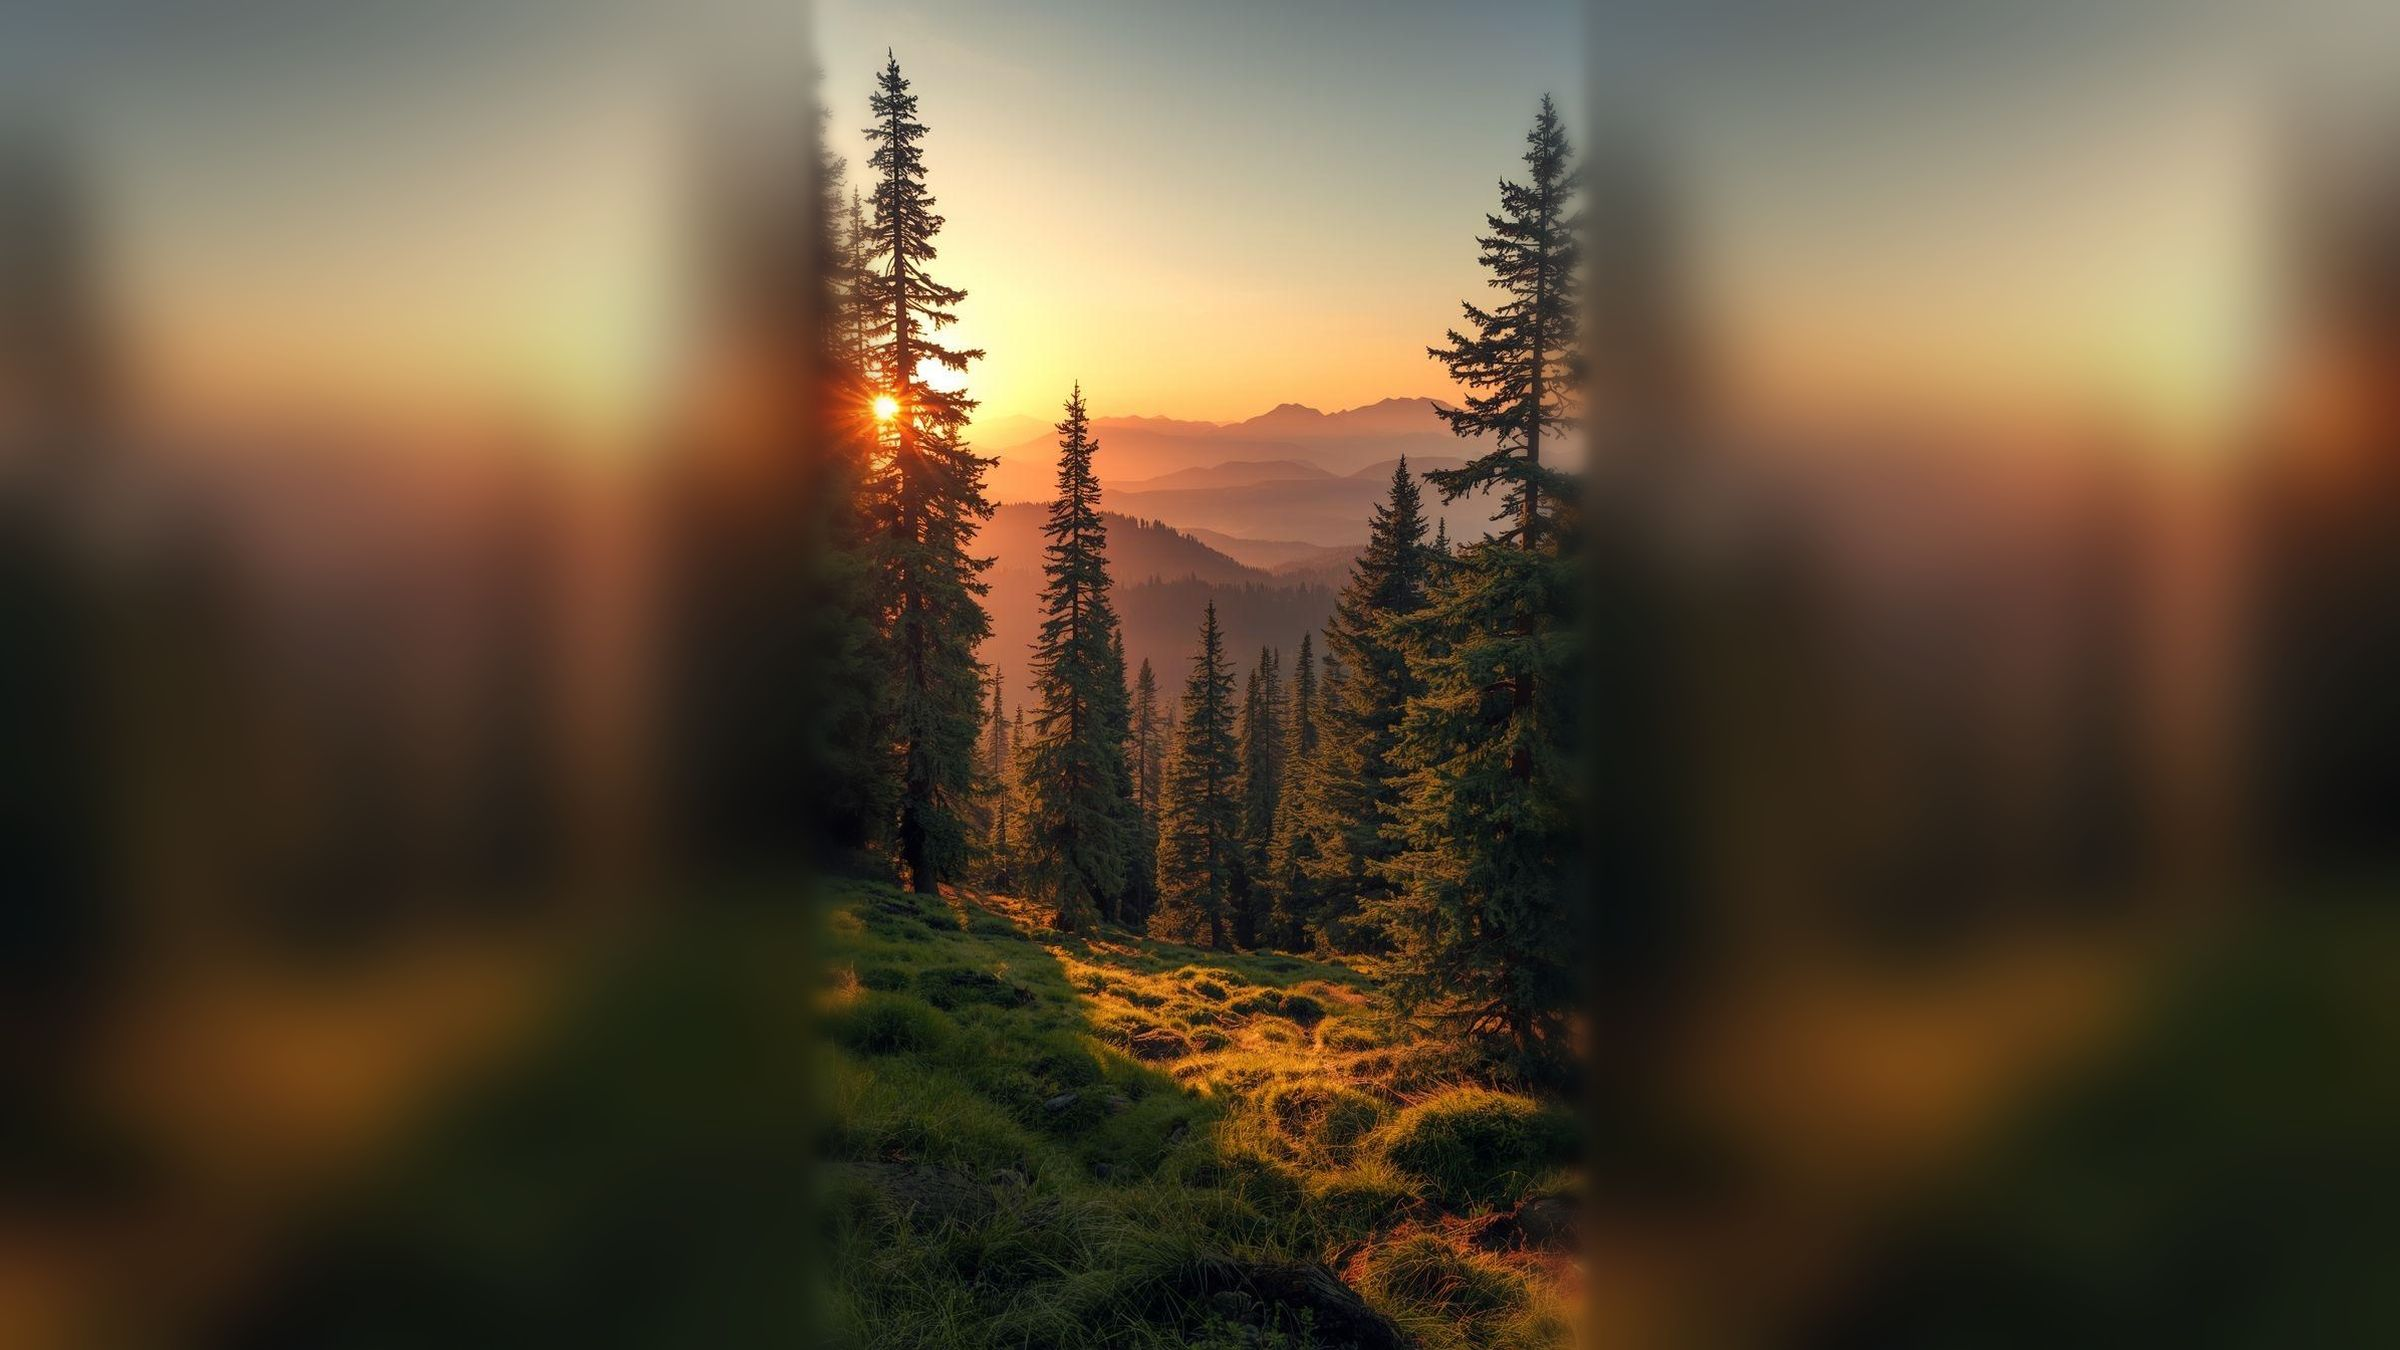
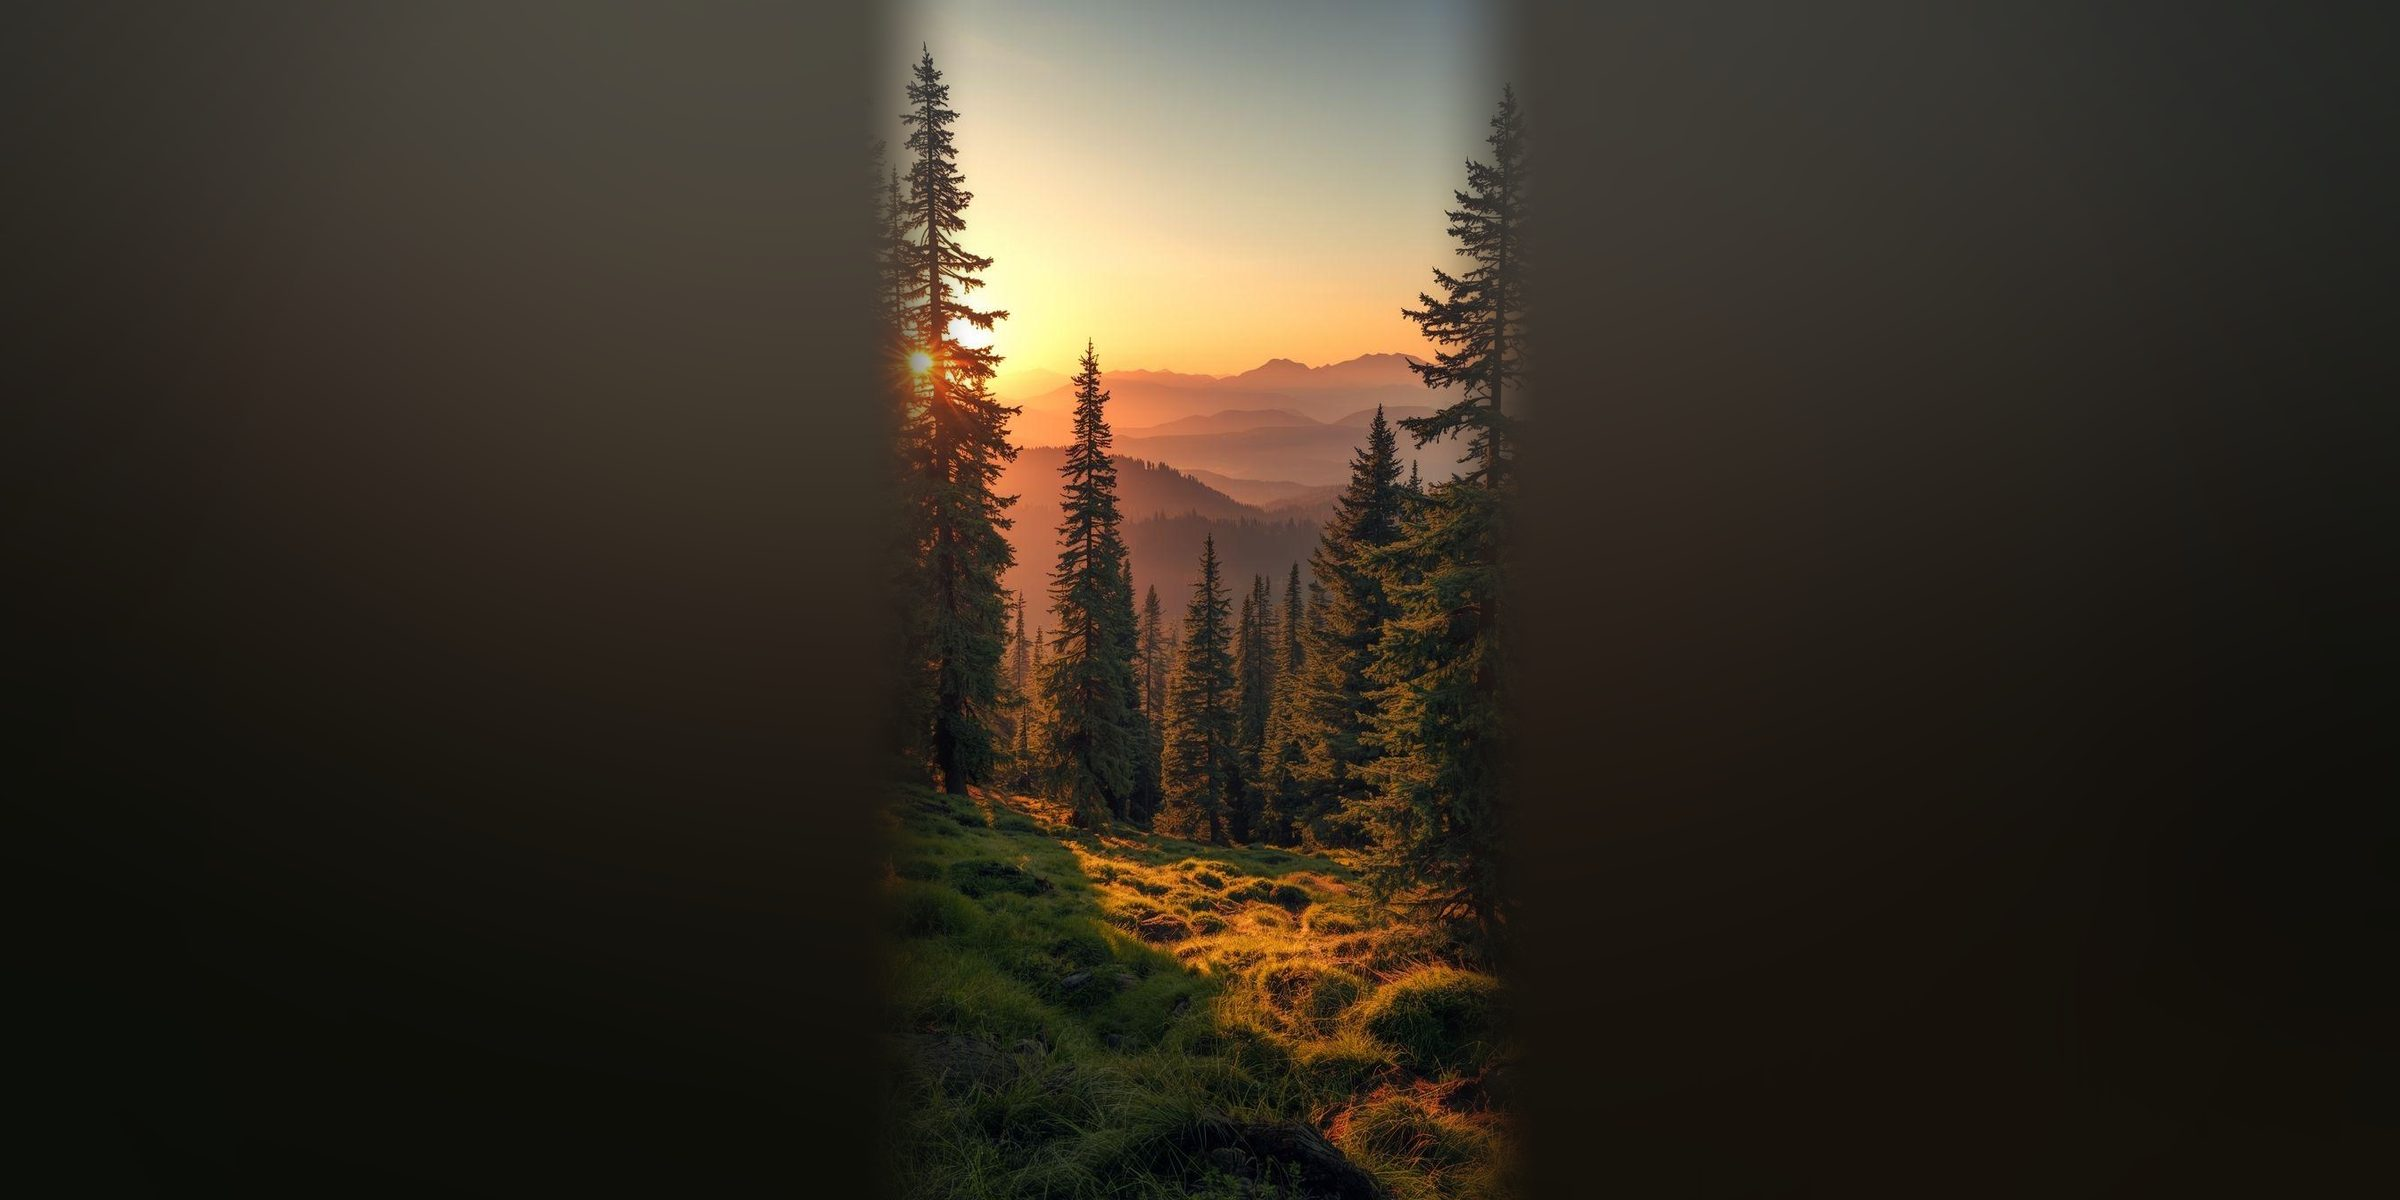
Hero v4 + sjednocený formulář + mikrobus + UX fixes

diff --git a/index.html b/index.html
@@ -139,7 +139,7 @@ img{display:block;max-width:100%}
 
 /* ===== INFO ===== */
 .info{padding:var(--py) 0;background:var(--sage-dark);color:var(--text-on-dark)}
-.info-cards{display:grid;grid-template-columns:1fr 1fr;gap:20px;margin-top:40px}
+.info-cards{display:grid;grid-template-columns:repeat(3,1fr);gap:20px;margin-top:40px}@media(max-width:1100px){.info-cards{grid-template-columns:1fr 1fr}}
 .info-card{padding:36px 28px;background:rgba(255,255,255,.07);border:1px solid rgba(255,255,255,.1);border-radius:var(--r);text-align:center;transition:.35s}
 .info-card:hover{background:rgba(255,255,255,.12);transform:translateY(-3px)}
 .info-card h3{font-family:var(--ff-display);font-size:26px;font-weight:500;color:var(--text-on-dark);margin:12px 0}
@@ -148,6 +148,8 @@ img{display:block;max-width:100%}
 .info-card strong{color:var(--text-on-dark);font-weight:500}
 .info-warn{margin-top:24px;padding:20px 24px;background:rgba(0,0,0,.12);border:1px solid rgba(255,255,255,.1);border-radius:var(--r);font-size:15px;color:var(--text-on-dark-soft);line-height:1.75}
 .info-warn strong{color:var(--gold-light);font-weight:500}
+.contact-note{margin:32px auto 0;max-width:680px;padding:22px 28px;background:var(--forest-deep);border-radius:var(--r);font-size:16px;color:var(--text-on-dark);line-height:1.7;text-align:center}
+.contact-note strong{color:var(--gold-light);font-weight:500}
 .tl{margin-top:48px}
 .tl h3{font-family:var(--ff-display);font-weight:400;font-size:28px;color:var(--text-on-dark);text-align:center;margin-bottom:32px}
 .tl-row{display:flex;justify-content:center;flex-wrap:wrap}
@@ -368,7 +370,7 @@ img{display:block;max-width:100%}
     <h1 class="hero-names">Tereza<span class="amp">a</span>Lukáš</h1>
     <div class="hero-frame"><svg color="var(--gold-light)"><use href="#hero-ornament"/></svg></div>
     <p class="hero-where">15. srpna 2026<i>·</i>Penzion Rochota, Brdy</p>
-    <div class="hero-btns"><a href="#rsvp" class="btn btn-gold">Potvrdit účast</a><a href="#booking" class="btn btn-ghost">Rezervovat ubytování</a></div>
+    <div class="hero-btns"><a href="#rsvp" class="btn btn-gold">Potvrdit účast &amp; ubytování</a><a href="#info" class="btn btn-ghost">Informace o svatbě</a></div>
   </div>
 </section>
 
@@ -379,25 +381,24 @@ img{display:block;max-width:100%}
 <section class="gal"><div class="tc wrap rv"><span class="tag-light">Naše chvíle</span><h2 class="title-light">Cesta <em>k sobě</em></h2><div class="divider-botanical"><svg width="200" height="24" color="var(--gold-pale)"><use href="#branch"/></svg></div></div><div class="gal-wrap rv"><button class="gal-btn gal-prev" aria-label="Předchozí"><svg viewBox="0 0 24 24" fill="none" stroke="currentColor" stroke-width="2"><path d="M15 18l-6-6 6-6"/></svg></button><div class="gal-track" id="galTrack"><img src="gallery-1.jpg" alt="" loading="lazy"><img src="gallery-2.jpg" alt="" loading="lazy"><img src="gallery-3.jpg" alt="" loading="lazy"><img src="gallery-4.jpg" alt="" loading="lazy"><img src="gallery-5.jpg" alt="" loading="lazy"><img src="gallery-6.jpg" alt="" loading="lazy"><img src="gallery-7.jpg" alt="" loading="lazy"><img src="gallery-8.jpg" alt="" loading="lazy"><img src="gallery-9.jpg" alt="" loading="lazy"><img src="gallery-10.jpg" alt="" loading="lazy"><img src="gallery-11.jpg" alt="" loading="lazy"><img src="gallery-12.jpg" alt="" loading="lazy"></div><button class="gal-btn gal-next" aria-label="Další"><svg viewBox="0 0 24 24" fill="none" stroke="currentColor" stroke-width="2"><path d="M9 18l6-6-6-6"/></svg></button><div class="gal-dots" id="galDots"></div></div></section>
 
 <!-- INFO -->
-<section class="info" id="info"><div class="wrap"><div class="tc rv"><span class="tag-light">Informace o svatbě</span><h2 class="title-light">Kdy a <em>kde</em></h2><p class="sub-light">Uprostřed brdských lesů, na samotę, jen kousek od Prahy</p><div class="divider-botanical"><svg width="200" height="24" color="var(--gold-pale)"><use href="#branch"/></svg></div></div><div class="info-cards"><div class="info-card rv rv-d1"><h3>Datum &amp; čas</h3><p><strong>Sobota 15. srpna 2026</strong><br>Coffee break od 10:30<br>Obřad ve 14:30 hodin<br><br>Prosíme o příjezd nejpozději ve 14:00.</p></div><div class="info-card rv rv-d2"><h3>Místo konání</h3><p><strong>Restaurace &amp; Penzion Rochota</strong><br>Rochoty 930, 263 01 Dobříš<br><a href="https://maps.google.com/?q=49.8731231,14.1892425" target="_blank" rel="noopener">Otevřít v Google Maps →</a></p></div></div><div class="info-warn rv"><strong>⚠ Jak se k nám dostanete:</strong> Rochota leží cca 29 km od Prahy (30 min autem). Jeďte přes vesnici <strong>Halouny</strong>. Google Mapy mohou navádět z druhé strany — tudy vede jen lesní cesta, <strong>nejezděte tam!</strong> Doporučujeme Waze. Parkování pro 35 aut v areálu zdarma.</div><div class="tl rv"><h3>Harmonogram dne</h3><div class="tl-row"><div class="tl-item"><div class="tl-time">10:30</div><div class="tl-name">Coffee break &amp; přivítání</div></div><div class="tl-item"><div class="tl-time">12:00</div><div class="tl-name">Oběd</div></div><div class="tl-item"><div class="tl-time">14:30</div><div class="tl-name">Obřad u jezírka</div></div><div class="tl-item"><div class="tl-time">odpoledne</div><div class="tl-name">Krájení dortu, focení, koupání v jezeře, volná zábava — a nechte se překvapit ✨</div></div><div class="tl-item"><div class="tl-time">od 18:00</div><div class="tl-name">Grilování &amp; oheň</div></div><div class="tl-item"><div class="tl-time">od 19:30</div><div class="tl-name">Párty až do rána</div></div></div></div><div class="map-box rv"><iframe src="https://www.google.com/maps/embed?pb=!1m18!1m12!1m3!1d5145.2!2d14.1870!3d49.8731!2m3!1f0!2f0!3f0!3m2!1i1024!2i768!4f13.1!3m3!1m2!1s0x470b930a3a6a0a0f%3A0x400af0f6614f890!2sRochoty!5e0!3m2!1scs!2scz!4v1" loading="lazy" allowfullscreen referrerpolicy="no-referrer-when-downgrade"></iframe></div></div></section>
+<section class="info" id="info"><div class="wrap"><div class="tc rv"><span class="tag-light">Informace o svatbě</span><h2 class="title-light">Kdy a <em>kde</em></h2><p class="sub-light">Uprostřed brdských lesů, na samotę, jen kousek od Prahy</p><div class="divider-botanical"><svg width="200" height="24" color="var(--gold-pale)"><use href="#branch"/></svg></div></div><div class="info-cards"><div class="info-card rv rv-d1"><h3>Datum &amp; čas</h3><p><strong>Sobota 15. srpna 2026</strong><br>Coffee break od 10:30<br>Obřad ve 14:30 hodin<br><br>Prosíme o příjezd nejpozději ve 14:00.</p></div><div class="info-card rv rv-d2"><h3>Místo konání</h3><p><strong>Restaurace &amp; Penzion Rochota</strong><br>Rochoty 930, 263 01 Dobříš<br><a href="https://maps.google.com/?q=49.8731231,14.1892425" target="_blank" rel="noopener">Otevřít v Google Maps →</a></p></div><div class="info-card rv rv-d2"><h3>🚐 Doprava z Prahy</h3><p>Pro pohodlí všech hostů jsme zařídili <strong>mikrobus z Prahy</strong>, který bude jezdit <strong>každou hodinu</strong>. Stačí v RSVP formuláři zaškrtnout, že máte zájem — ozveme se s detailním rozpisem (místo, časy odjezdů a návratů).</p></div></div><div class="info-warn rv"><strong>⚠ Jak se k nám dostanete:</strong> Rochota leží cca 29 km od Prahy (30 min autem). Jeďte přes vesnici <strong>Halouny</strong>. Google Mapy mohou navádět z druhé strany — tudy vede jen lesní cesta, <strong>nejezděte tam!</strong> Doporučujeme Waze. Parkování pro 35 aut v areálu zdarma.</div><div class="tl rv"><h3>Harmonogram dne</h3><div class="tl-row"><div class="tl-item"><div class="tl-time">10:30</div><div class="tl-name">Coffee break &amp; přivítání</div></div><div class="tl-item"><div class="tl-time">12:00</div><div class="tl-name">Oběd</div></div><div class="tl-item"><div class="tl-time">14:30</div><div class="tl-name">Obřad u jezírka</div></div><div class="tl-item"><div class="tl-time">odpoledne</div><div class="tl-name">Krájení dortu, focení, koupání v jezeře, volná zábava — a nechte se překvapit ✨</div></div><div class="tl-item"><div class="tl-time">od 18:00</div><div class="tl-name">Grilování &amp; oheň</div></div><div class="tl-item"><div class="tl-time">od 19:30</div><div class="tl-name">Párty až do rána</div></div></div></div><div class="map-box rv"><iframe src="https://www.google.com/maps/embed?pb=!1m18!1m12!1m3!1d5145.2!2d14.1870!3d49.8731!2m3!1f0!2f0!3f0!3m2!1i1024!2i768!4f13.1!3m3!1m2!1s0x470b930a3a6a0a0f%3A0x400af0f6614f890!2sRochoty!5e0!3m2!1scs!2scz!4v1" loading="lazy" allowfullscreen referrerpolicy="no-referrer-when-downgrade"></iframe></div></div></section>
 
 <!-- ACCOMMODATION -->
 <section class="accom" id="accom"><div class="wrap"><div class="tc rv"><span class="tag-dark">Ubytování</span><h2 class="title-dark">Kde <em>přespat</em></h2><p class="sub-dark">V areálu je ubytování až pro 90 hostů — slavte s námi do rána</p><div class="divider-botanical"><svg width="200" height="24" color="var(--sage)"><use href="#branch"/></svg></div></div><div class="accom-grid"><div class="accom-card rv rv-d1"><div class="accom-img" style="background:url('hajovna.jpg') center/cover;height:260px"></div><div class="accom-body"><span class="accom-tag">Varianta A</span><h3>Hájovna</h3><p>Komfortní dvoulůžkové pokoje s vlastní koupelnou. Možnost přistýlky pro třetího hosta. Ideální pro páry i samotné cestovatele.</p><div class="accom-chips"><span class="accom-chip">Vlastní koupelna</span><span class="accom-chip">Wi-Fi</span><span class="accom-chip">Snídaně</span></div><div class="accom-foot"><span>2 lůžkový pokoj</span><strong>2 500 Kč / noc</strong></div><div class="accom-foot"><span>Přistýlka</span><strong>1 000 Kč / noc</strong></div></div></div><div class="accom-card rv rv-d2"><div class="accom-img" style="background:url('myslivna.jpg') center/cover;height:260px"></div><div class="accom-body"><span class="accom-tag">Varianta B</span><h3>Myslivna</h3><p>Zrekonstruovaná chalupa s vlastním zázemím — kuchyňka, terasa, gril. Pronajímá se po patrech nebo celá pro skupiny rodin a přátel.</p><div class="accom-chips"><span class="accom-chip">Kuchyňka</span><span class="accom-chip">Gril</span><span class="accom-chip">Pro skupiny</span></div><div class="accom-foot"><span>1 patro (cca 10 osob)</span><strong>10 000 Kč / noc</strong></div><div class="accom-foot"><span>Celá Myslivna (cca 20 osob)</span><strong>20 000 Kč / noc</strong></div></div></div><div class="accom-card rv rv-d2"><div class="accom-img" style="background:url('glamping.jpg') center/cover;height:260px"></div><div class="accom-body"><span class="accom-tag">Varianta C</span><h3>Glampingové domky</h3><p>Stylové glampingové domky uprostřed přírody — luxusní zážitek bez kompromisů na komfortu. Skvělé pro páry i menší rodiny.</p><div class="accom-chips"><span class="accom-chip">10 domků</span><span class="accom-chip">Příroda</span><span class="accom-chip">Romantika</span></div><div class="accom-foot"><span>Domek (max. 4 osoby)</span><strong>4 500 Kč / noc</strong></div><div class="accom-foot"><span>Celkem až 40 osob</span><strong>—</strong></div></div></div></div><p class="tc rv" style="margin-top:32px;font-style:italic;color:var(--text-mid);font-family:var(--ff-display);font-size:18px">Více fotek a podrobnosti o ubytování na <a href="https://www.rochoty.com/ubytovani/" target="_blank" rel="noopener" style="color:var(--forest-mid);text-decoration:underline">rochoty.com/ubytovani</a></p></div></div></section>
 
-<!-- BOOKING -->
-<section class="form-sec" id="booking"><div class="wrap"><div class="tc rv"><span class="tag-dark">Rezervace ubytování</span><h2 class="title-dark">Rezervovat <em>pokoj</em></h2><div class="divider-botanical"><svg width="200" height="24" color="var(--sage)"><use href="#branch"/></svg></div></div><div class="form-box rv"><form id="bookForm"><div class="fr"><div class="fg"><label for="bN">Jméno a příjmení</label><input type="text" id="bN" name="name" required placeholder="Jan Novák"></div><div class="fg"><label for="bG">Počet osob</label><input type="number" id="bG" name="guests" min="1" max="10" required placeholder="2"></div></div><div class="fr full"><div class="fg"><label>Typ ubytování</label><div class="rg"><div class="rc"><input type="radio" id="bH" name="type" value="hajovna" required><label for="bH"><span class="ri">🏡</span><span class="rn">Hájovna</span><span class="rs">2 500 Kč/noc</span></label></div><div class="rc"><input type="radio" id="bM" name="type" value="myslivna"><label for="bM"><span class="ri">🌲</span><span class="rn">Myslivna</span><span class="rs">10 000 Kč/noc patro</span></label></div><div class="rc"><input type="radio" id="bG_glamp" name="type" value="glamping"><label for="bG_glamp"><span class="ri">⛺</span><span class="rn">Glamping</span><span class="rs">4 500 Kč/noc</span></label></div></div></div></div><div class="fr full"><div class="fg"><label for="bNo">Poznámka</label><textarea id="bNo" name="note" placeholder="Speciální požadavky, počet nocí, děti..."></textarea></div></div><div class="fsub"><button type="submit" class="btn btn-forest">Odeslat rezervaci</button></div></form><div class="form-ok" id="bOk"><div class="oi">✓</div><h3>Rezervace odeslána</h3><p>Děkujeme! Ozveme se Vám s potvrzením.</p></div></div></div></section>
+<!-- BOOKING removed — sloučeno do RSVP -->
 
 <!-- DRESSCODE -->
 <section class="dress" id="dress"><div class="wrap"><div class="rv"><span class="tag-light">Dress code</span><h2 class="title-light">Přírodní <em>elegance</em></h2><div class="divider-botanical"><svg width="200" height="24" color="var(--gold-pale)"><use href="#branch"/></svg></div></div><p class="dress-text rv rv-d1">Slavíme uprostřed přírody v brdských lesích — oblečte se pohodlně, ale elegantně. Inspirujte se přírodními barvami. Dámy — šaty v teplých tónech. Pánové — oblek v béžové, hnědé či zelené.<br><br><strong>Prosíme, vyhněte se černé a bílé.</strong></p><div class="swatches rv rv-d2"><div class="sw"><div class="sw-dot" style="background:#8B7355"></div><span class="sw-nm">Hnědá</span></div><div class="sw"><div class="sw-dot" style="background:#C5A55A"></div><span class="sw-nm">Zlatá</span></div><div class="sw"><div class="sw-dot" style="background:#5A7C52"></div><span class="sw-nm">Zelená</span></div><div class="sw"><div class="sw-dot" style="background:#E0D4C4"></div><span class="sw-nm">Béžová</span></div><div class="sw"><div class="sw-dot" style="background:#C4906A"></div><span class="sw-nm">Terakota</span></div><div class="sw"><div class="sw-dot" style="background:#A8BEA0"></div><span class="sw-nm">Šalvěj</span></div></div></div></section>
 
 <!-- FAQ -->
-<section class="faq" id="faq"><div class="wrap"><div class="tc rv"><span class="tag-dark">Časté dotazy</span><h2 class="title-dark">Vše, co potřebujete <em>vědět</em></h2><div class="divider-botanical"><svg width="200" height="24" color="var(--sage)"><use href="#branch"/></svg></div></div><div class="faq-list"><div class="faq-item rv"><button class="faq-q">Mohu přijít s dětmi?<span class="faq-icon"></span></button><div class="faq-a"><div class="faq-a-in">Samozřejmě! V areálu je dětské hřiště a dostatek prostoru. Dejte nám prosím vědět v RSVP, kolik dětí přijde.</div></div></div><div class="faq-item rv"><button class="faq-q">Jak se tam dostanu?<span class="faq-icon"></span></button><div class="faq-a"><div class="faq-a-in">Rochota je cca 29 km od Prahy (30 min autem). Jeďte přes vesnici Halouny — nenastavujte GPS na druhou stranu! Doporučujeme Waze. Parkování pro 35 aut v areálu zdarma.</div></div></div><div class="faq-item rv"><button class="faq-q">Kde bude obřad?<span class="faq-icon"></span></button><div class="faq-a"><div class="faq-a-in">U romantického jezírka s molem v zahradę penzionu. V případě deště — prosklená zimní zahrada s výhledem do sadu a lesa.</div></div></div><div class="faq-item rv"><button class="faq-q">Jaké bude jídlo?<span class="faq-icon"></span></button><div class="faq-a"><div class="faq-a-in">Rochota je známá vynikající kuchyní — moderní česká gastronomie z regionálních surovin. Bohatý raut včetně vegetariánských variant.</div></div></div><div class="faq-item rv"><button class="faq-q">Do kolika bude párty?<span class="faq-icon"></span></button><div class="faq-a"><div class="faq-a-in">Rochota je na samotę v lese — žádná hluková omezení! Párty plánujeme do ranních hodin. Proto doporučujeme ubytování přímo v areálu.</div></div></div><div class="faq-item rv"><button class="faq-q">Je k dispozici wellness?<span class="faq-icon"></span></button><div class="faq-a"><div class="faq-a-in">Ano! Sauna a vířivka v areálu. Ideální na relaxaci po svatební párty nebo v neděli ráno.</div></div></div><div class="faq-item rv"><button class="faq-q">Mohu darovat peníze místo dárku?<span class="faq-icon"></span></button><div class="faq-a"><div class="faq-a-in">Vaše přítomnost je pro nás tím největším dárkem. Pokud nám přesto chcete udělat radost, budeme vděční za příspěvek na svatební cestu.</div></div></div></div></div></section>
+<section class="faq" id="faq"><div class="wrap"><div class="tc rv"><span class="tag-dark">Časté dotazy</span><h2 class="title-dark">Vše, co potřebujete <em>vědět</em></h2><div class="divider-botanical"><svg width="200" height="24" color="var(--sage)"><use href="#branch"/></svg></div></div><div class="faq-list"><div class="faq-item rv"><button class="faq-q">Mohu přijít s dětmi?<span class="faq-icon"></span></button><div class="faq-a"><div class="faq-a-in">Samozřejmě! V areálu je dětské hřiště a dostatek prostoru. Dejte nám prosím vědět v RSVP, kolik dětí přijde.</div></div></div><div class="faq-item rv"><button class="faq-q">Jak se tam dostanu?<span class="faq-icon"></span></button><div class="faq-a"><div class="faq-a-in">Rochota je cca 29 km od Prahy (30 min autem). Jeďte přes vesnici Halouny — nenastavujte GPS na druhou stranu! Doporučujeme Waze. Parkování pro 35 aut v areálu zdarma.</div></div></div><div class="faq-item rv"><button class="faq-q">Jezdí mikrobus z Prahy?<span class="faq-icon"></span></button><div class="faq-a"><div class="faq-a-in">Ano! Mikrobus bude svážet hosty z Prahy <strong>každou hodinu</strong> — tam i zpět. V RSVP formuláři zaškrtněte zájem o mikrobus a my Vám pošleme přesný rozpis (místo nástupu, časy odjezdů a návratů). Skvělá volba pro ty, kdo nechtějí řešit auto a chtějí si svatbu pořádně užít.</div></div></div><div class="faq-item rv"><button class="faq-q">Kde bude obřad?<span class="faq-icon"></span></button><div class="faq-a"><div class="faq-a-in">U romantického jezírka s molem v zahradę penzionu. V případě deště — prosklená zimní zahrada s výhledem do sadu a lesa.</div></div></div><div class="faq-item rv"><button class="faq-q">Jaké bude jídlo?<span class="faq-icon"></span></button><div class="faq-a"><div class="faq-a-in">Rochota je známá vynikající kuchyní — moderní česká gastronomie z regionálních surovin. Bohatý raut včetně vegetariánských variant.</div></div></div><div class="faq-item rv"><button class="faq-q">Do kolika bude párty?<span class="faq-icon"></span></button><div class="faq-a"><div class="faq-a-in">Rochota je na samotę v lese — žádná hluková omezení! Párty plánujeme do ranních hodin. Proto doporučujeme ubytování přímo v areálu.</div></div></div><div class="faq-item rv"><button class="faq-q">Je k dispozici wellness?<span class="faq-icon"></span></button><div class="faq-a"><div class="faq-a-in">Ano! Sauna a vířivka v areálu. Ideální na relaxaci po svatební párty nebo v neděli ráno.</div></div></div><div class="faq-item rv"><button class="faq-q">Mohu darovat peníze místo dárku?<span class="faq-icon"></span></button><div class="faq-a"><div class="faq-a-in">Vaše přítomnost je pro nás tím největším dárkem. Pokud nám přesto chcete udělat radost, budeme vděční za příspěvek na svatební cestu.</div></div></div></div></div></section>
 
 <!-- RSVP -->
-<section class="form-sec cream" id="rsvp"><div class="wrap"><div class="tc rv"><span class="tag-dark">RSVP</span><h2 class="title-dark">Potvrďte svou <em>účast</em></h2><p class="sub-dark">Prosíme o odpověď do 15. června 2026</p><div class="divider-botanical"><svg width="200" height="24" color="var(--sage)"><use href="#branch"/></svg></div></div><div class="form-box rv"><form id="rsvpForm"><div class="fr"><div class="fg"><label for="rN">Jméno a příjmení</label><input type="text" id="rN" name="name" required placeholder="Jan Novák"></div><div class="fg"><label for="rG">Počet osob</label><input type="number" id="rG" name="guests" min="1" max="10" required placeholder="2"></div></div><div class="fr full"><div class="fg"><label>Přijdete?</label><div class="rg"><div class="rc"><input type="radio" id="rY" name="attend" value="ano" required><label for="rY"><span class="ri">🌿</span><span class="rn">S radostí přijdu!</span></label></div><div class="rc"><input type="radio" id="rNo" name="attend" value="ne"><label for="rNo"><span class="ri">🍂</span><span class="rn">Bohužel nemůžu</span></label></div></div></div></div><div class="fr full"><div class="fg"><label for="rNt">Poznámka</label><textarea id="rNt" name="note" placeholder="Alergie, jména dalších hostů, děti..."></textarea></div></div><div class="fsub"><button type="submit" class="btn btn-forest">Odeslat</button></div></form><div class="form-ok" id="rOk"><div class="oi">✓</div><h3>Děkujeme!</h3><p>Vaše odpověď byla zaznamenána. Těšíme se na Vás!</p></div></div></div></section>
+<section class="form-sec cream" id="rsvp"><div class="wrap"><div class="tc rv"><span class="tag-dark">RSVP</span><h2 class="title-dark">Potvrďte svou <em>účast</em></h2><p class="sub-dark">Prosíme o odpověď do 15. června 2026</p><div class="divider-botanical"><svg width="200" height="24" color="var(--sage)"><use href="#branch"/></svg></div></div><div class="form-box rv"><form id="rsvpForm"><div class="fr"><div class="fg"><label for="rN">Jméno a příjmení</label><input type="text" id="rN" name="name" required placeholder="Jan Novák"></div><div class="fg"><label for="rG">Počet osob</label><input type="number" id="rG" name="guests" min="1" max="10" required placeholder="2"></div></div><div class="fr full"><div class="fg"><label>Přijdete?</label><div class="rg"><div class="rc"><input type="radio" id="rY" name="attend" value="ano" required><label for="rY"><span class="ri">🌿</span><span class="rn">S radostí přijdu!</span></label></div><div class="rc"><input type="radio" id="rNo" name="attend" value="ne"><label for="rNo"><span class="ri">🍂</span><span class="rn">Bohužel nemůžu</span></label></div></div></div></div><div class="fr full"><div class="fg"><label>Ubytování</label><div class="rg rg-4"><div class="rc"><input type="radio" id="rUbN" name="ubytovani" value="bez_prespani" required><label for="rUbN"><span class="ri">🏠</span><span class="rn">Bez přespání</span><span class="rs">odjedu večer</span></label></div><div class="rc"><input type="radio" id="rUbH" name="ubytovani" value="hajovna"><label for="rUbH"><span class="ri">🏡</span><span class="rn">Hájovna</span><span class="rs">2 500 Kč/noc</span></label></div><div class="rc"><input type="radio" id="rUbM" name="ubytovani" value="myslivna"><label for="rUbM"><span class="ri">🌲</span><span class="rn">Myslivna</span><span class="rs">10 000 Kč/patro</span></label></div><div class="rc"><input type="radio" id="rUbG" name="ubytovani" value="glamping"><label for="rUbG"><span class="ri">⛺</span><span class="rn">Glamping</span><span class="rs">4 500 Kč/noc</span></label></div></div></div></div><div class="fr"><div class="fg"><label for="rNoci">Počet nocí <span style="opacity:.6;font-weight:400">(volitelné)</span></label><input type="number" id="rNoci" name="noci" min="0" max="5" placeholder="např. 1"></div><div class="fg"><label>Mikrobus z Prahy?</label><div class="rg"><div class="rc"><input type="radio" id="rMbY" name="mikrobus" value="ano"><label for="rMbY"><span class="ri">🚐</span><span class="rn">Ano, prosím</span></label></div><div class="rc"><input type="radio" id="rMbN" name="mikrobus" value="ne"><label for="rMbN"><span class="ri">🚗</span><span class="rn">Pojedu autem</span></label></div></div></div></div><div class="fr full"><div class="fg"><label for="rNt">Poznámka</label><textarea id="rNt" name="note" placeholder="Alergie, jména dalších hostů, děti, speciální požadavky na ubytování..."></textarea></div></div><div class="fsub"><button type="submit" class="btn btn-forest">Odeslat</button></div></form><div class="form-ok" id="rOk"><div class="oi">✓</div><h3>Děkujeme!</h3><p>Vaše odpověď byla zaznamenána. Ozveme se Vám s detaily k ubytování i mikrobusu.</p></div></div></div></section>
 
 <!-- CONTACT -->
-<section class="contact" id="contact"><div class="wrap"><div class="rv"><span class="tag-dark">Kontakt</span><h2 class="title-dark">Napište <em>nám</em></h2><div class="divider-botanical"><svg width="200" height="24" color="var(--sage)"><use href="#branch"/></svg></div></div><div class="contact-row rv rv-d1"><div class="contact-box"><h4>Tereza</h4><a href="tel:[phone redacted]">[phone redacted]</a></div><div class="contact-box"><h4>Lukáš</h4><a href="tel:[phone redacted]">[phone redacted]</a></div><div class="contact-box"><h4>Email</h4><a href="mailto:[email redacted]">[email redacted]</a></div></div><div class="info-warn rv rv-d2" style="margin-top:32px;max-width:680px;margin-left:auto;margin-right:auto"><strong>💌 Prosíme:</strong> Pokud nás chcete kontaktovat, napište nám raději <strong>email</strong> nebo zprávu na <strong>WhatsApp</strong>. Telefonujte prosím jen v nutných případech — díky moc!</div></div></section>
+<section class="contact" id="contact"><div class="wrap"><div class="rv"><span class="tag-dark">Kontakt</span><h2 class="title-dark">Napište <em>nám</em></h2><div class="divider-botanical"><svg width="200" height="24" color="var(--sage)"><use href="#branch"/></svg></div></div><div class="contact-row rv rv-d1"><div class="contact-box"><h4>Tereza</h4><a href="tel:[phone redacted]">[phone redacted]</a></div><div class="contact-box"><h4>Lukáš</h4><a href="tel:[phone redacted]">[phone redacted]</a></div><div class="contact-box"><h4>Email</h4><a href="mailto:[email redacted]">[email redacted]</a></div></div><div class="contact-note rv rv-d2"><strong>💌 Prosíme:</strong> Pokud nás chcete kontaktovat, napište nám raději <strong>email</strong> nebo zprávu na <strong>WhatsApp</strong>. Telefonujte prosím jen v nutných případech — díky moc!</div></div></section>
 
 <!-- FOOTER -->
 <footer class="footer">
@@ -416,7 +417,7 @@ const obs=new IntersectionObserver(e=>{e.forEach(x=>{if(x.isIntersecting){x.targ
 document.querySelectorAll('.rv').forEach(el=>obs.observe(el));
 document.querySelectorAll('.faq-q').forEach(b=>{b.onclick=()=>{const it=b.parentElement,a=it.querySelector('.faq-a'),o=it.classList.contains('open');document.querySelectorAll('.faq-item').forEach(i=>{i.classList.remove('open');i.querySelector('.faq-a').style.maxHeight=null});if(!o){it.classList.add('open');a.style.maxHeight=a.scrollHeight+'px'}}});
 function initF(fId,sId){const f=document.getElementById(fId),ok=document.getElementById(sId);f.onsubmit=e=>{e.preventDefault();const d=Object.fromEntries(new FormData(f).entries());console.log('['+fId+']',d);f.style.display='none';ok.classList.add('show')}}
-initF('bookForm','bOk');initF('rsvpForm','rOk');
+initF('rsvpForm','rOk');
 // Gallery carousel
 (function(){
 const track=document.getElementById('galTrack');